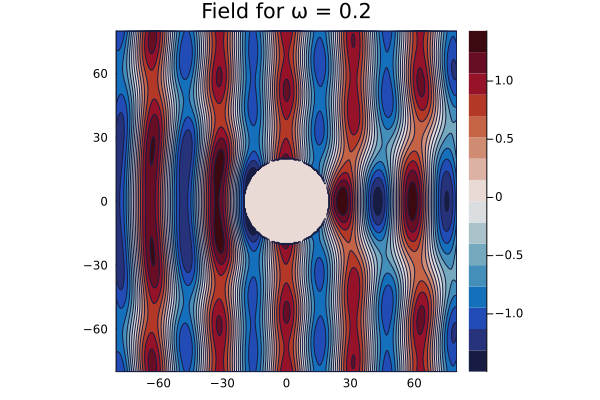
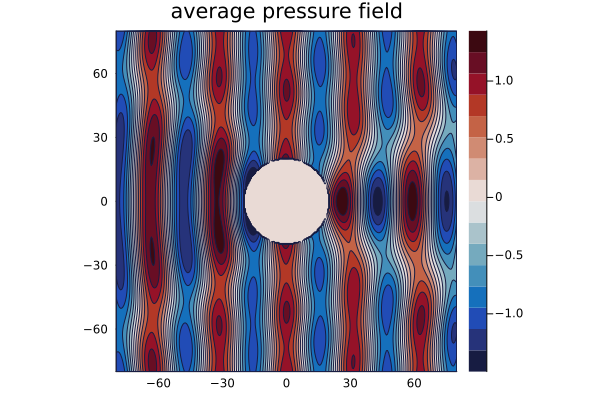
completed the plane wave scattering example and updated the README.md file

Changed region(s): [[0.27, 0.0, 0.69, 0.06]]

diff --git a/README.md b/README.md
@@ -41,14 +41,14 @@ Then the averaged scattered field $\langle u_s\rangle$ (over all possible config
 
 $$
 \tag{2}
-\langle u_s\rangle(\mathbf r) =  \sum_{n=-\infty}^{+\infty}\mathfrak F_n\mathrm H_n(k\mathbf r), \quad \mathfrak F_n := \mathrm T_ng_n
+\langle u_s\rangle(\mathbf r) =  \sum_{n=-\infty}^{+\infty}\mathfrak F_n\mathrm H_n(k\mathbf r), \quad \mathfrak F_n = \mathrm T_ng_n
 $$
 
-where $\mathrm T_n$ is related to the effective T-matrix $\mathrm T_{n,m}$ of the effective cylinder of radius $R$. More precisely,
+where $\mathrm T_n\in\mathbb{C}$ is related to the effective T-matrix $\mathrm T_{n,m}$ of the effective cylinder of radius $R$. More precisely,
 
 $$
 \tag{3}
-\mathrm T_{n,m} = \delta_{n,m} \mathrm T_n.
+\mathrm T_{n,m} := \delta_{n,m} \mathrm T_n.
 $$
 
 With this definition, the scattering from the effective cylinder of radius $R$ can be summerized in matrix form 
@@ -74,7 +74,78 @@ where we defined the vectors $\mathbf{\mathfrak{F}}=(\mathfrak F_n)_n$ and $\mat
 
 ### Demo 1: Computation of the coefficients $\mathrm T_n$ 
 
-cf examples/plane_wave_scattering/plane_wave_scattering.jl
+*cf. examples/plane_wave_scattering/plane_wave_scattering.jl*
+
+First set the dimension and physics of the problem by defining the host medium:
+
+```julia
+# 2D acoustic problem
+dimension=2;                               
+host_medium = Acoustic(dimension; ρ=1.0, c=1.0);
+```
+
+We consider a random particulate cylinder made of sound hard particles of radius 1.0. We also need to choose the volume fraction (density of particles). These information are stored in sp_MC:
+
+```julia
+## particulate microstructure of the effective cylinder
+particle = Particle(Acoustic(dimension; ρ=Inf, c=Inf),Circle(1.0)); # sound hard particles of radius 1.0 
+sp_MC = Specie(particle; volume_fraction = .4) 
+```
+
+Finally, the cylinder is defined by it's radius and microstructure, ie an homogeneous material with the particles previously defined. For now, the homogeneous material has to be the same as the one of the host material:
+
+```julia
+## define the effective cylinder
+cylinder_radius = 20.0;
+microstructure = Microstructure(host_medium,[sp_MC]);
+cylinder = Material(Circle(cylinder_radius),microstructure);
+```
+
+To compute the coefficients $\mathrm T_n$ of the effective T-matrix, we need to specify the frequency $\omega$ and the number of coefficients to compute:
+
+```julia
+## compute the coefficients of the T-matrix 
+ω = .2; # frequency
+N = 5;  # Tₙ for n ∈ [-N,N]
+T = t_matrix(ω, host_medium, cylinder, basis_field_order=N);
+```
+
+<p align="center">
+    <img
+    src="examples/plane_wave_scattering/T-matrix.png"
+    alt="Alt text"
+    title=""
+    style="display: inline-block; margin: 0 auto; max-width: 200px">
+</p>
+
+
+The computation of the T-matrix uses the Effective Waves Method and is relatively fast. In Demo 2, we show how these results are validated with Monte Carlo simulations. 
+
+Once these coefficients are computed, the scattering from any incident field can be computed by using the decomposition (1) of the incident field and formula (2) for the scattered field. Below is an example for computing the average pressure field resulting from an incident plane wave:
+
+```julia
+# Define the incident plane wave
+psource = plane_source(host_medium; direction = [1.0,0.0]);
+
+# Define box where to compute the average scattered field 
+P=Q=4*cylinder_radius;                   # bounding box size
+bottomleft = [-P;-Q]; topright = [P;Q];
+region = Box([bottomleft, topright]);    # bounding box
+
+us = average_scattered_field(ω, region, psource, cylinder; basis_field_order=N);
+plot(us,ω; field_apply=real,seriestype = :contour,c=:balance) 
+plot!(title="average pressure field")
+```
+
+
+<p align="center">
+    <img
+    src="examples/plane_wave_scattering/plane_wave_scattering.png"
+    alt="Alt text"
+    title=""
+    style="display: inline-block; margin: 0 auto; max-width: 200px">
+</p>
+
 
 ### Demo 2: Monte Carlo validation of the coefficients $\mathrm T_n$ 
 
@@ -254,26 +325,3 @@ scatter!(title="modes for one $(nb_of_configurations) realisations")
     title=""
     style="display: inline-block; margin: 0 auto; max-width: 200px">
 </p>
-
-
-
-## II) The effective T-matrix 
-
-After ensemble averaging over particle configurations within a cylindrical region the system inherits cylindrical symmetry. 
-For example, if the source has radial symmetry then the average scattered field will also have radial symmetry. This is also true for sources 
-with more general rotational symmetry resulting in scattered fields of the same rotational symmetry.
-
-If we respectively denote by $\mathrm V_n$ and $\mathrm U_n$ the incident and scattered modes of order $n$, then they are linearly related by some 
-complex number $\mathrm T_n$ as follows:
-
-$$
-   \mathrm  U_n = \mathrm T_n \mathrm V_n,\quad \mathrm T_n\in \mathbb{C},
-$$
-
-where  only depends on the properties of the random material, such as it's radius and constitutive particles. Since the scattering 
-problem is linear, the knowledge of the $\mathrm T_n$ allows to describe the scattering from any incident field, after decomposing the latter into 
-the modes $\mathrm V_n$.
-
-This library computes $\mathrm T_n$, provided the particles types and the material radius by using a 
-We do so by using the effective wave method approach \cite{gower2021effective}. Finally, we show that it is possible to
-improve the rate of convergence of Monte Carlo simulations thanks to the cylindrical symmetry. We use the latter to validate our results.
